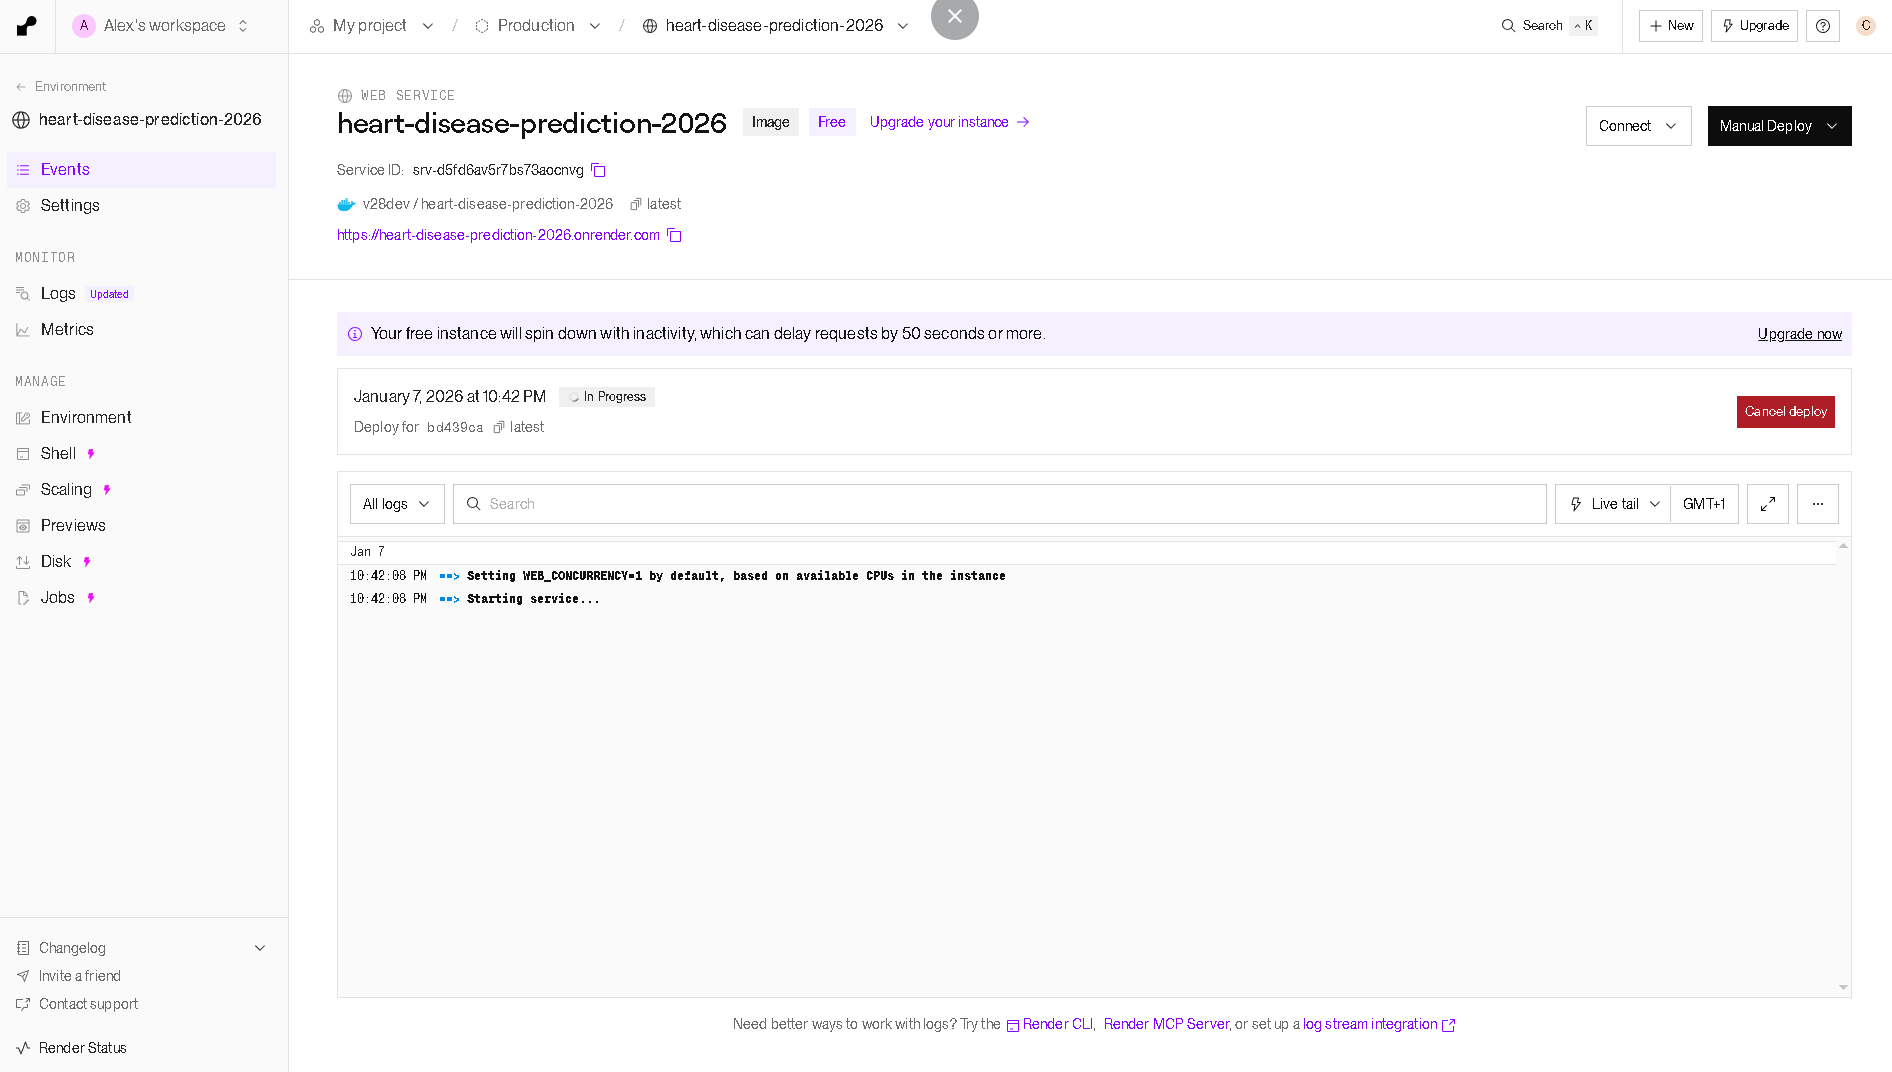
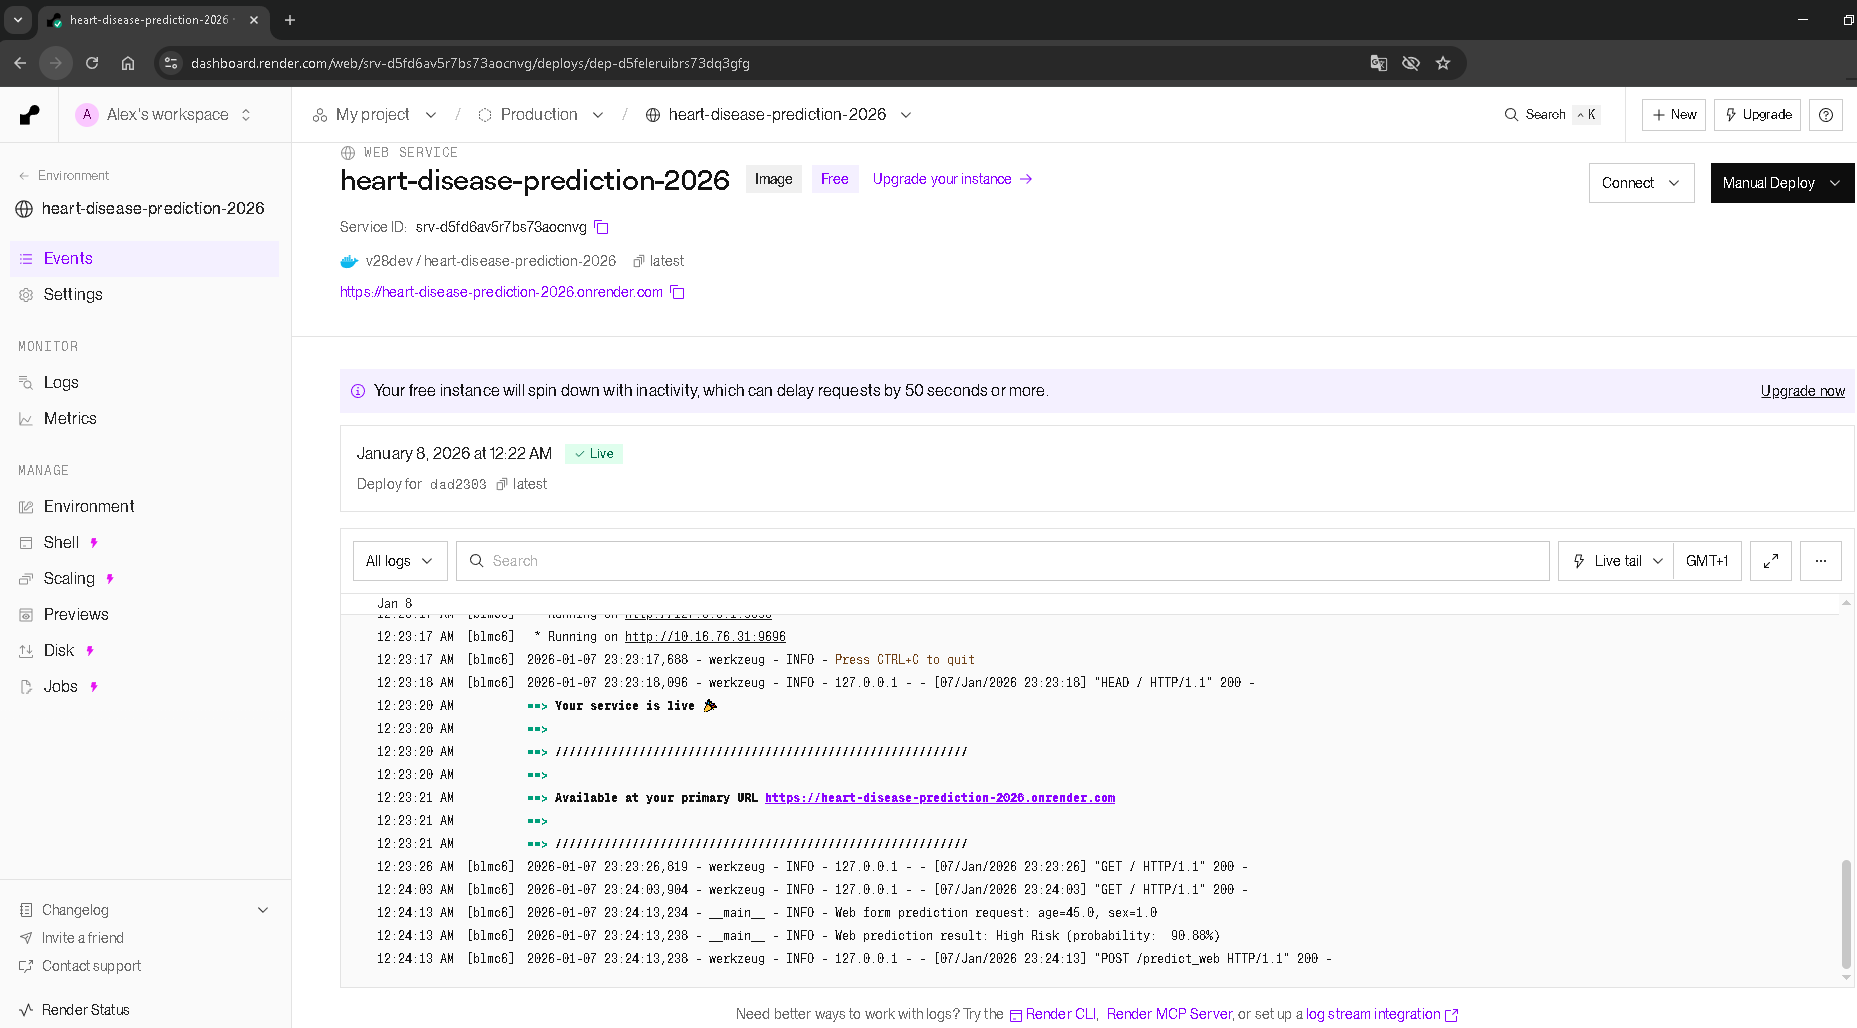
Clean-up

diff --git a/capstone1/README.md b/capstone1/README.md
@@ -626,12 +626,16 @@ docker-compose up -d
 
 We trained and compared **4 machine learning algorithms** on 1,025 patient records:
 
-| Model | Accuracy | Precision | Recall | F1-Score | ROC-AUC | Training Time |
-|-------|----------|-----------|--------|----------|---------|---------------|
-| Logistic Regression | 85.37% | 86.96% | 86.96% | 86.96% | 0.9180 | 0.8s |
-| **Random Forest (Tuned)** | **86.83%** | **88.00%** | **88.00%** | **88.00%** | **0.9350** | **3.2s** |
-| Gradient Boosting | 84.39% | 85.71% | 85.71% | 85.71% | 0.9120 | 2.5s |
-| XGBoost | 85.37% | 86.96% | 86.96% | 86.96% | 0.9200 | 1.9s |
+| Model | Accuracy | F1 Score | ROC-AUC |
+| --- | --- | --- | --- |
+| **Logistic Regression** | **0.8033** | **0.8235** | **0.8712** |
+| Decision Tree | 0.8033 | 0.8182 | 0.8019 |
+| Random Forest | 0.7541 | 0.7761 | 0.8588 |
+| Gradient Boosting | 0.7213 | 0.7463 | 0.8258 |
+| XGBoost | 0.7213 | 0.7463 | 0.8323 |
+| SVM | 0.7705 | 0.7941 | 0.8420 |
+| K-Nearest Neighbors | 0.7869 | 0.8116 | 0.8377 |
+| Naive Bayes | 0.7869 | 0.7937 | 0.8842 |
 
 ### Best Model: Random Forest (Tuned)
 
@@ -745,6 +749,11 @@ python -c "import joblib; m=joblib.load('models/model_metadata.pkl'); print(f\"A
 
 ### Render Free-tier Deployment
 ![Docker Testing](./images/k8s-render-01.png)  
+
+### Render-deployed App URL:
+https://heart-disease-prediction-2026.onrender.com  
+
+![Docker Testing](./images/k8s-render-02.png)  
 
 ### Azure AKS Deployment
 ![Docker Testing](./images/k8s-cluster-deployment-01.png)  
